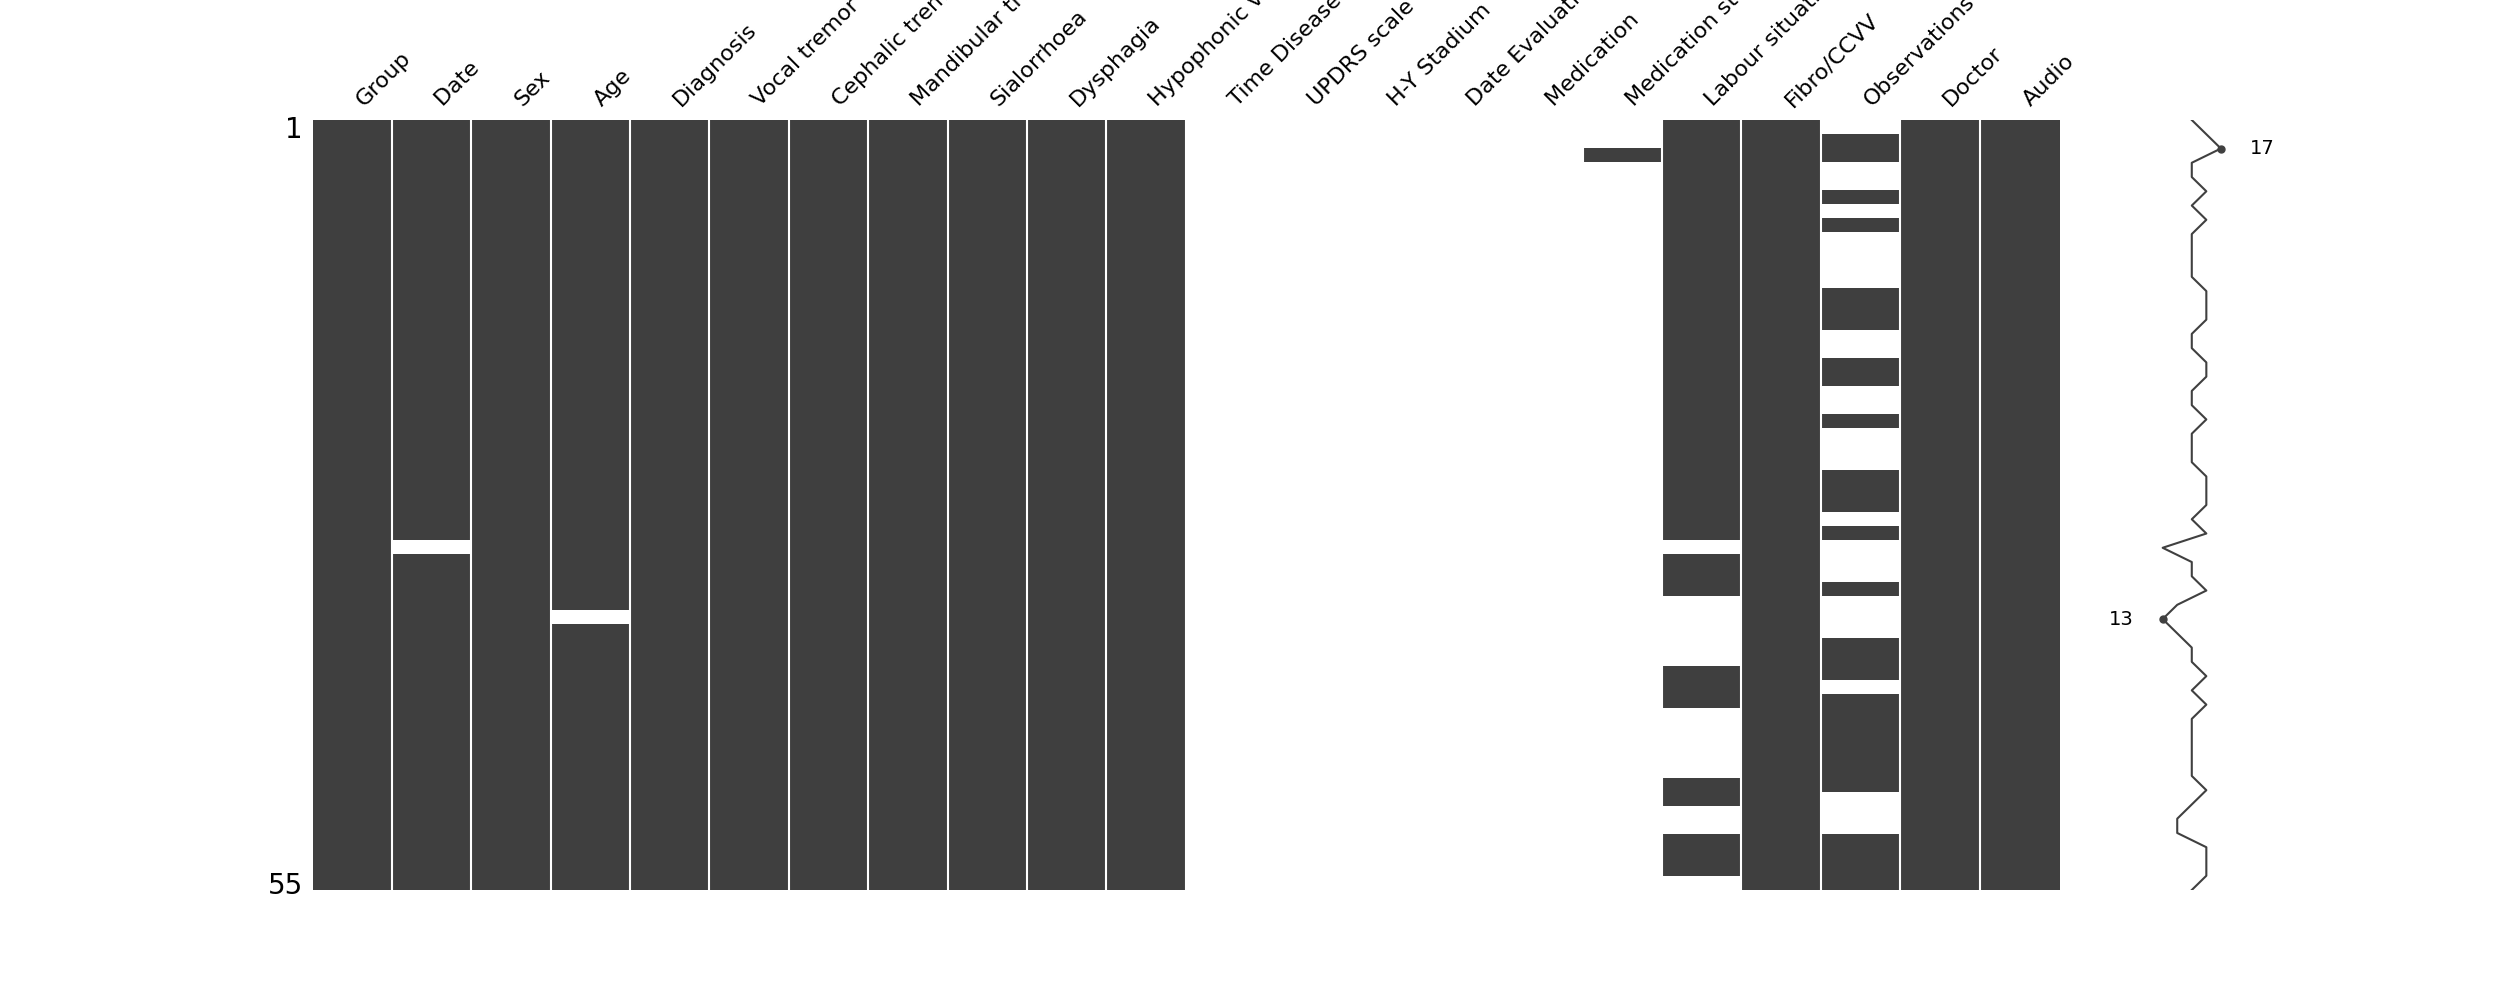
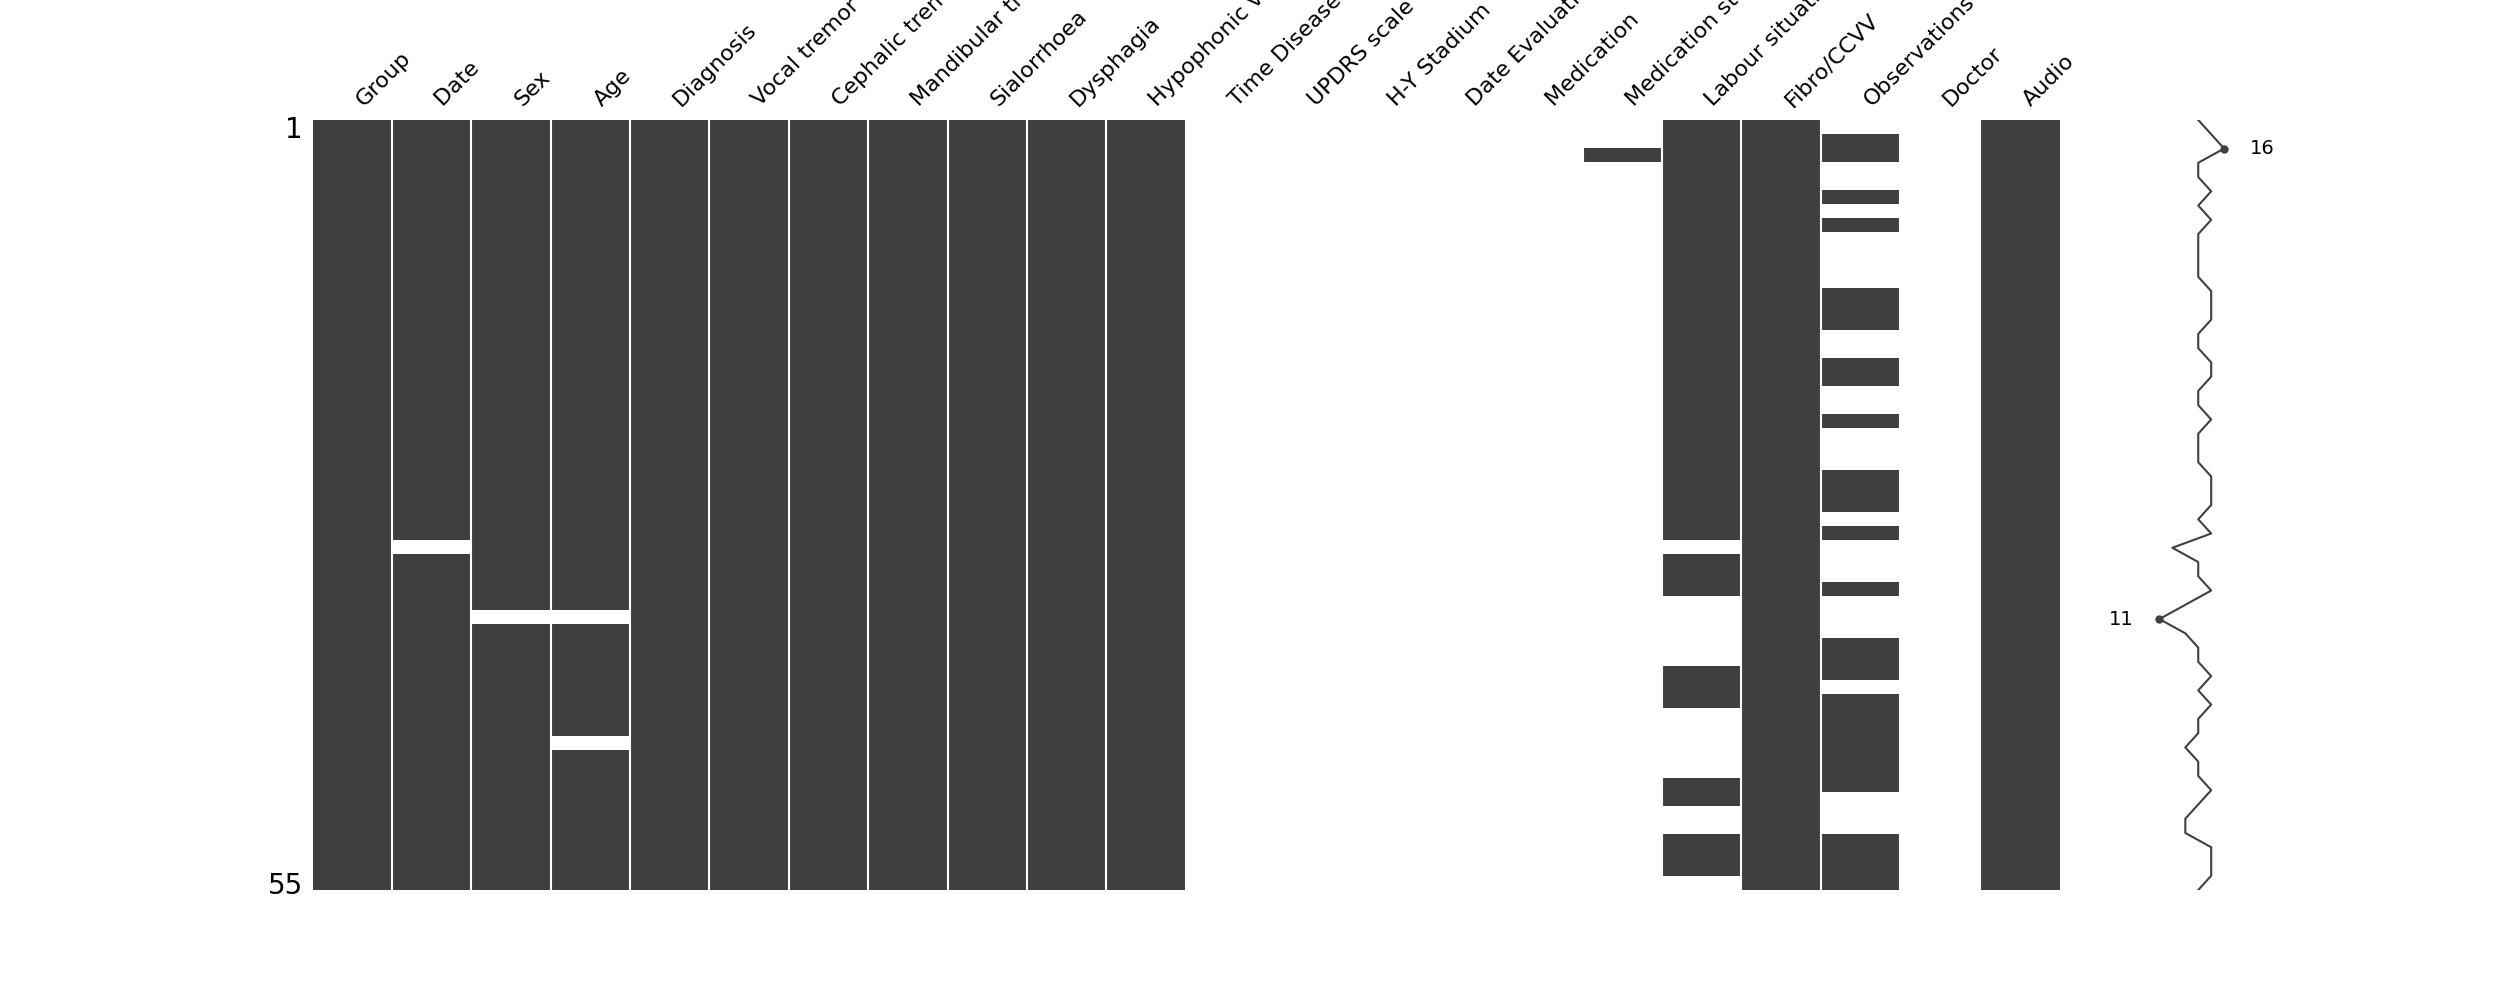
new images and distros added

diff --git a/clean_dataset.py b/clean_dataset.py
@@ -71,14 +71,14 @@ def categorize_column(df, column):
         idx_si = df[column].str.lower().str.startswith("poco")
         df.loc[idx_si, column] = "si"
 
+    # Ensure that nan is np.nan
+    df[column] = df[column].infer_objects(copy=False).replace("nan", np.nan)
+
     if column == "Doctor":
         # Velasquez and Velazquez are the same
         df[column] = df[column].replace("Velasquez", "Velazquez")
     df[column] = df[column].astype("category")
     df[column] = df[column].cat.codes
-    if column == "Sex":
-        # Substitue 2 for -1
-        df[column] = df[column].replace(2, -1)
 
     return df
 
@@ -96,6 +96,10 @@ def clean_excel(excel_path):
     # Rename "Médico" to "Doctor"
     data_pd = data_pd.rename(columns={"Médico": "Doctor"})
     data_hc = data_hc.rename(columns={"Médico": "Doctor"})
+
+    # Fill na with np.nan
+    data_pd = data_pd.infer_objects(copy=False).fillna(np.nan)
+    data_hc = data_hc.infer_objects(copy=False).fillna(np.nan)
 
     # Categorize Doctor to anonymize
     data_pd = categorize_column(data_pd, "Doctor")
@@ -122,6 +126,14 @@ def clean_excel(excel_path):
     data_hc.columns = model.translate(
         data_hc.columns, source_lang="es", target_lang="en"
     )
+
+    # Correct Age column: None should be np.nan and ? should be np.nan
+    data_pd["Age"] = data_pd["Age"].replace("None", np.nan)
+    data_pd["Age"] = data_pd["Age"].replace("?", np.nan)
+    data_pd["Age"] = data_pd["Age"].astype(float)
+    data_hc["Age"] = data_hc["Age"].replace("None", np.nan)
+    data_hc["Age"] = data_hc["Age"].replace("?", np.nan)
+    data_hc["Age"] = data_hc["Age"].astype(float)
 
     return data_pd, data_hc
 

diff --git a/audio_statistics.py b/audio_statistics.py
@@ -23,15 +23,29 @@ def general_statistic():
     audios_hc = df_hc["Audio"].tolist()
     audios_pd = df_pd["Audio"].tolist()
 
+    # Get total hours of audio registered
+    import librosa
+
+    total_hours_hc = 0
+    for audio in audios_hc:
+        y, sr = librosa.load(audio)
+        total_hours_hc += librosa.get_duration(y=y, sr=sr)
+
+    total_hours_pd = 0
+    for audio in audios_pd:
+        y, sr = librosa.load(audio)
+        total_hours_pd += librosa.get_duration(y=y, sr=sr)
+
+    print(f"Total hours of audio in healthy controls: {total_hours_hc / 3600}")
+    print(f"Total hours of audio in patients: {total_hours_pd / 3600}")
+    print(f"Total hours of audio: {(total_hours_hc + total_hours_pd) / 3600}")
+
     # The filename of the audio is composed by condition_audiotype_patientId.wav
     # We can split the filename by "_" and get the condition, audiotype and patientId
 
     # Select all vowels. They have an audiotype of len 2, which is the vowel and the recording number
     vowels_hc = [audio for audio in audios_hc if len(audio.split("_")[1]) == 2]
     vowels_pd = [audio for audio in audios_pd if len(audio.split("_")[1]) == 2]
-
-    # Check the mean and std duration of the vowels using librosa
-    import librosa
 
     # Use try and catch to avoid errors in the audios
     durations_hc = []
@@ -151,3 +165,7 @@ def general_statistic():
 
 def main():
     general_statistic()
+
+
+if __name__ == "__main__":
+    main()

diff --git a/general_statistics.py b/general_statistics.py
@@ -138,6 +138,39 @@ def general_statistic():
     print(f"Number of columns in the healthy dataset: {len(df_hc.columns)}")
     print(f"Number of columns in the patient dataset: {len(df_pd.columns)}")
 
+    # Graphs for sex and age distribution of both datasets
+    plt.figure(figsize=(14, 6))
+
+    # Histogram for 'Age'
+    plt.subplot(1, 2, 1)
+    sns.histplot(df_pd.groupby("ID").first()["Age"], bins=15, kde=True, color="skyblue")
+    plt.title("Age distribution for PD group.")
+
+    plt.subplot(1, 2, 2)
+    sns.histplot(df_hc.groupby("ID").first()["Age"], bins=15, kde=True, color="skyblue")
+    plt.title("Age distribution for HC group.")
+    plt.tight_layout()
+    plt.show()
+    plt.savefig("age_distro_distribution.png")
+
+    # Bar chart
+    plt.figure(figsize=(14, 6))
+
+    # Bar chart for 'Sex'
+    plt.subplot(1, 2, 1)
+    ax1 = sns.countplot(x="Sex", data=df_pd.groupby("ID").first(), palette="Set2")
+    ax1.set_xticks(range(2), labels=["Female", "Male"])
+    plt.title("Sex distribution for PD group.")
+
+    plt.subplot(1, 2, 2)
+    axs = sns.countplot(x="Sex", data=df_hc.groupby("ID").first(), palette="Set2")
+    axs.set_xticks(range(2), labels=["Female", "Male"])
+    plt.title("Sex distribution for HC group.")
+
+    plt.tight_layout()
+    plt.show()
+    plt.savefig("sex_distro_distribution.png")
+
 
 def main():
     general_statistic()
